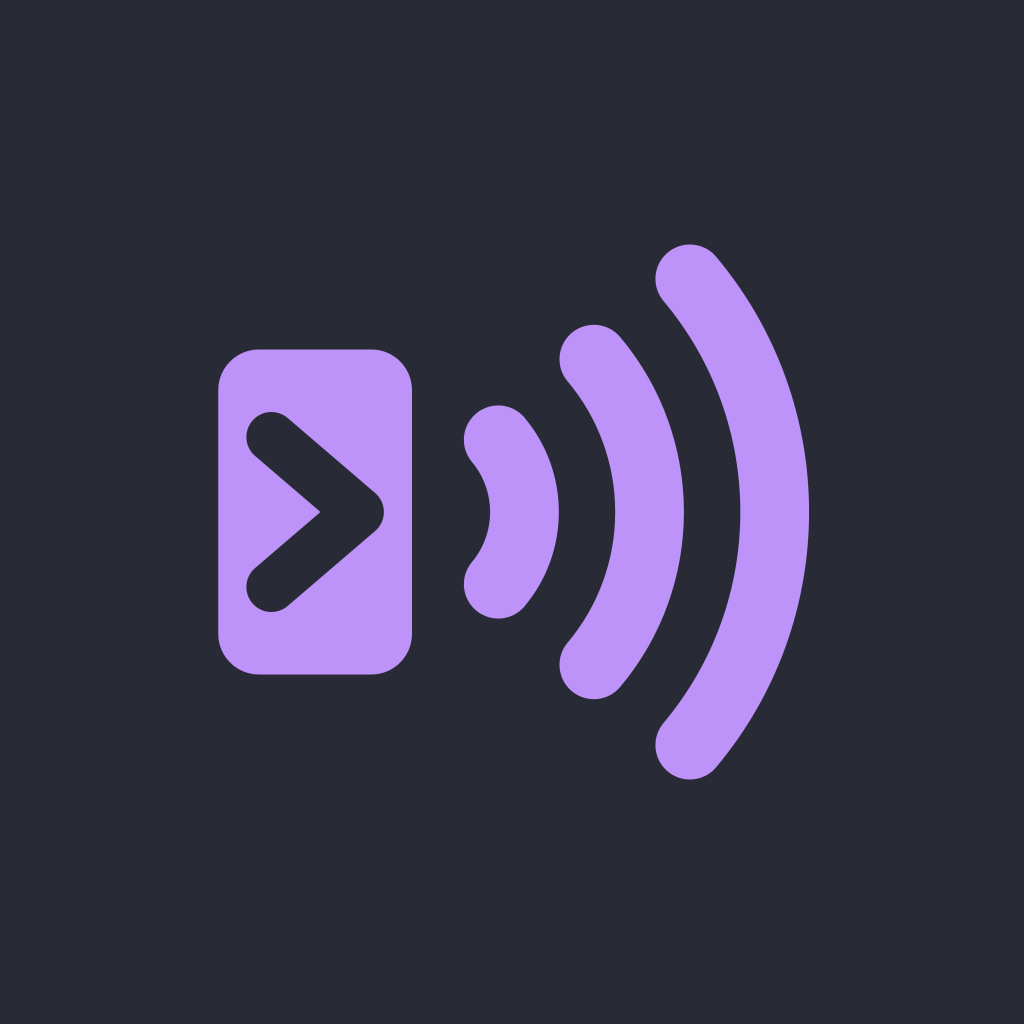
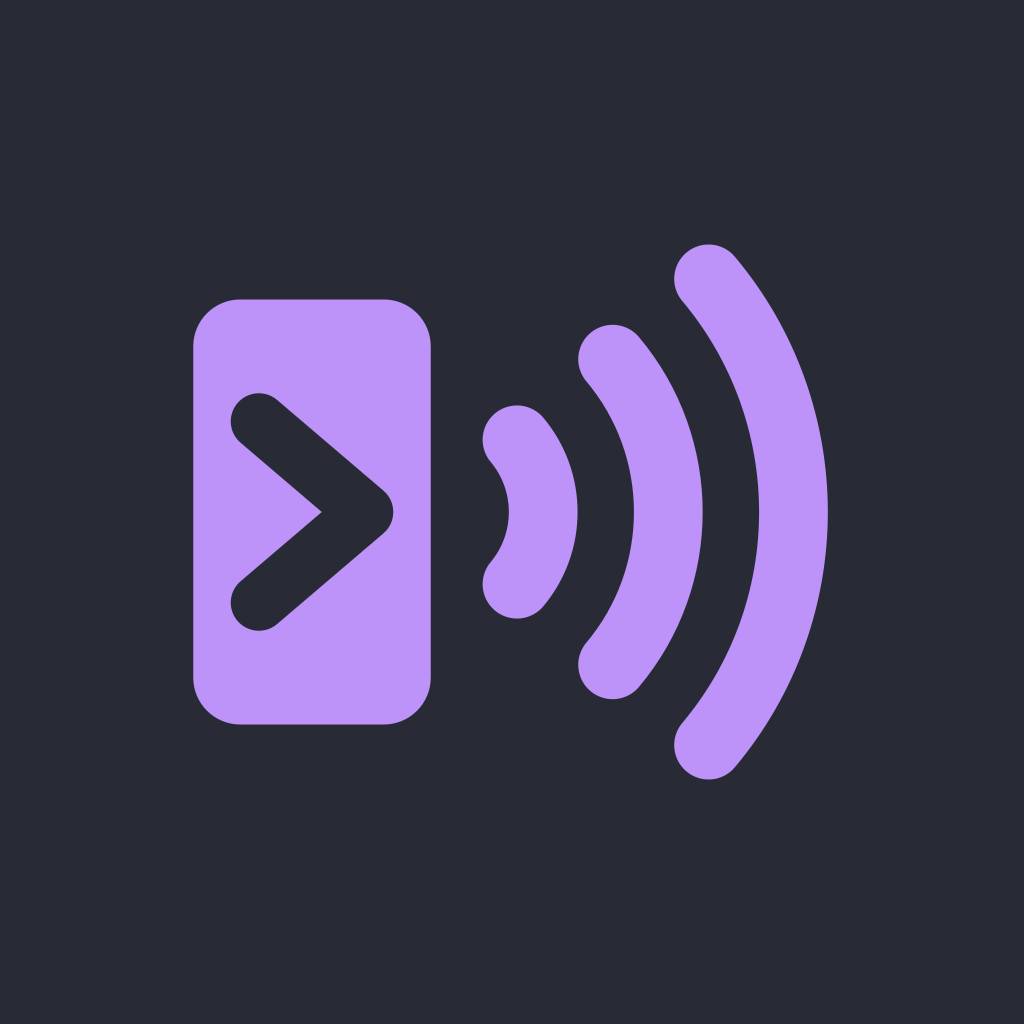
feat: taller cursor block in the Cursor Signal mark
The 62 x 104 block with three arcs leaving it read as a loudspeaker.
The block is now 76 x 136 at (26, 60), radius 15, the prompt cutout
18 (26 in the bold weight) and the arcs stay concentric on its right
edge (102, 128), so the mark reads as a phone with a signal. The same
geometry everywhere it is drawn: the icon generator and its outputs
(app icons, splash, notification, Live Activity, favicon, feature
graphic, README banner, Linux tray glyph), the app's Mark, the site's
mark and favicon, the identity sprite, the macOS and Windows tray
glyphs and the branding sources.

diff --git a/docs/design/identity/shared.js b/docs/design/identity/shared.js
@@ -8,22 +8,22 @@
     '<svg xmlns="http://www.w3.org/2000/svg" width="0" height="0" style="position:absolute" aria-hidden="true">',
     // Regular weight: app icon, splash, README, landing.
     '<symbol id="rh-mark" viewBox="0 0 256 256">',
-    '<mask id="rh-cursor"><rect width="256" height="256" fill="#fff"/><path d="M51 104L79 128L51 152" fill="none" stroke="var(--cutout, #000)" stroke-width="16" stroke-linecap="round" stroke-linejoin="round"/></mask>',
-    '<rect x="34" y="76" width="62" height="104" rx="13" fill="var(--block, currentColor)" mask="url(#rh-cursor)"/>',
+    '<mask id="rh-cursor"><rect width="256" height="256" fill="#fff"/><path d="M47 99L81 128L47 157" fill="none" stroke="var(--cutout, #000)" stroke-width="18" stroke-linecap="round" stroke-linejoin="round"/></mask>',
+    '<rect x="26" y="60" width="76" height="136" rx="15" fill="var(--block, currentColor)" mask="url(#rh-cursor)"/>',
     '<g fill="none" stroke="currentColor" stroke-width="22" stroke-linecap="round">',
-    '<path d="M123.6 104.9A36 36 0 0 1 123.6 151.1"/>',
-    '<path d="M154.2 79.1A76 76 0 0 1 154.2 176.9"/>',
-    '<path d="M184.9 53.4A116 116 0 0 1 184.9 202.6"/>',
+    '<path d="M129.6 104.9A36 36 0 0 1 129.6 151.1"/>',
+    '<path d="M160.2 79.1A76 76 0 0 1 160.2 176.9"/>',
+    '<path d="M190.9 53.4A116 116 0 0 1 190.9 202.6"/>',
     '</g>',
     '</symbol>',
     // Bold weight: menu bar, notification icon, favicon 16/32, anything under 24 px (wider cutout and arcs).
     '<symbol id="rh-mark-bold" viewBox="0 0 256 256">',
-    '<mask id="rh-cursor-bold"><rect width="256" height="256" fill="#fff"/><path d="M51 104L79 128L51 152" fill="none" stroke="var(--cutout, #000)" stroke-width="24" stroke-linecap="round" stroke-linejoin="round"/></mask>',
-    '<rect x="34" y="76" width="62" height="104" rx="13" fill="var(--block, currentColor)" mask="url(#rh-cursor-bold)"/>',
+    '<mask id="rh-cursor-bold"><rect width="256" height="256" fill="#fff"/><path d="M47 99L81 128L47 157" fill="none" stroke="var(--cutout, #000)" stroke-width="26" stroke-linecap="round" stroke-linejoin="round"/></mask>',
+    '<rect x="26" y="60" width="76" height="136" rx="15" fill="var(--block, currentColor)" mask="url(#rh-cursor-bold)"/>',
     '<g fill="none" stroke="currentColor" stroke-width="28" stroke-linecap="round">',
-    '<path d="M123.6 104.9A36 36 0 0 1 123.6 151.1"/>',
-    '<path d="M154.2 79.1A76 76 0 0 1 154.2 176.9"/>',
-    '<path d="M184.9 53.4A116 116 0 0 1 184.9 202.6"/>',
+    '<path d="M129.6 104.9A36 36 0 0 1 129.6 151.1"/>',
+    '<path d="M160.2 79.1A76 76 0 0 1 160.2 176.9"/>',
+    '<path d="M190.9 53.4A116 116 0 0 1 190.9 202.6"/>',
     '</g>',
     '</symbol>',
     '</svg>',

diff --git a/apps/daemon/tray/macos/Tray.swift b/apps/daemon/tray/macos/Tray.swift
@@ -235,17 +235,17 @@ final class Tray: NSObject {
       let ink = (colored ? NSColor.labelColor : NSColor.black)
         .withAlphaComponent(state == "offline" ? 0.4 : 1)
       ink.set()
-      let block = NSRect(x: 34 * s, y: 76 * s, width: 62 * s, height: 104 * s)
-      NSBezierPath(roundedRect: block, xRadius: 13 * s, yRadius: 13 * s).fill()
+      let block = NSRect(x: 26 * s, y: 60 * s, width: 76 * s, height: 136 * s)
+      NSBezierPath(roundedRect: block, xRadius: 15 * s, yRadius: 15 * s).fill()
       if state != "working" {
         // The prompt is punched out of the block: an opaque stroke erased from what is drawn so far.
         let prompt = NSBezierPath()
-        prompt.lineWidth = 24 * s
+        prompt.lineWidth = 26 * s
         prompt.lineCapStyle = .round
         prompt.lineJoinStyle = .round
-        prompt.move(to: p(51, 104))
-        prompt.line(to: p(79, 128))
-        prompt.line(to: p(51, 152))
+        prompt.move(to: p(47, 99))
+        prompt.line(to: p(81, 128))
+        prompt.line(to: p(47, 157))
         NSColor.black.set()
         NSGraphicsContext.current?.compositingOperation = .destinationOut
         prompt.stroke()
@@ -257,13 +257,13 @@ final class Tray: NSObject {
         let arc = NSBezierPath()
         arc.lineWidth = 28 * s
         arc.lineCapStyle = .round
-        arc.appendArc(withCenter: p(96, 128), radius: radius * s, startAngle: -40, endAngle: 40)
+        arc.appendArc(withCenter: p(102, 128), radius: radius * s, startAngle: -40, endAngle: 40)
         arc.stroke()
       }
       if colored {
         // Amber accent (#E8A33D), the only color the glyph ever carries, over the outer arc's upper end.
         NSColor(calibratedRed: 0.91, green: 0.64, blue: 0.24, alpha: 1).set()
-        NSBezierPath(ovalIn: NSRect(x: 184 * s, y: 12 * s, width: 64 * s, height: 64 * s)).fill()
+        NSBezierPath(ovalIn: NSRect(x: 190 * s, y: 12 * s, width: 64 * s, height: 64 * s)).fill()
       }
       return true
     }

diff --git a/apps/web/src/site.ts b/apps/web/src/site.ts
@@ -37,19 +37,19 @@ export const OG_IMAGE_URL = `${SITE_URL}${OG_IMAGE_PATH}`
 function markMarkup(cutout: number, arcs: number, maskId: string): string {
   return (
     `<mask id="${maskId}"><rect width="256" height="256" fill="#fff"/>` +
-    `<path d="M51 104L79 128L51 152" fill="none" stroke="#000" stroke-width="${cutout}" stroke-linecap="round" stroke-linejoin="round"/></mask>` +
-    `<rect x="34" y="76" width="62" height="104" rx="13" fill="currentColor" mask="url(#${maskId})"/>` +
+    `<path d="M47 99L81 128L47 157" fill="none" stroke="#000" stroke-width="${cutout}" stroke-linecap="round" stroke-linejoin="round"/></mask>` +
+    `<rect x="26" y="60" width="76" height="136" rx="15" fill="currentColor" mask="url(#${maskId})"/>` +
     `<g fill="none" stroke="currentColor" stroke-width="${arcs}" stroke-linecap="round">` +
-    '<path d="M123.6 104.9A36 36 0 0 1 123.6 151.1"/><path d="M154.2 79.1A76 76 0 0 1 154.2 176.9"/>' +
-    '<path d="M184.9 53.4A116 116 0 0 1 184.9 202.6"/></g>'
+    '<path d="M129.6 104.9A36 36 0 0 1 129.6 151.1"/><path d="M160.2 79.1A76 76 0 0 1 160.2 176.9"/>' +
+    '<path d="M190.9 53.4A116 116 0 0 1 190.9 202.6"/></g>'
   )
 }
 
 /** Regular weight: the landing and the install link page. */
-export const MARK_REGULAR = markMarkup(16, 22, 'rh-cursor')
+export const MARK_REGULAR = markMarkup(18, 22, 'rh-cursor')
 
 /** Bold weight (wider cutout and arcs), for anything under 24 px (the favicon). */
-export const MARK_BOLD = markMarkup(24, 28, 'rh-cursor-bold')
+export const MARK_BOLD = markMarkup(26, 28, 'rh-cursor-bold')
 
 /** Amber mark in a 78 % box on the flat warm dark, with the icon's 22 % corners. */
 export function faviconSvg(): string {

diff --git a/apps/mobile/src/ui/Mark.tsx b/apps/mobile/src/ui/Mark.tsx
@@ -8,14 +8,14 @@ type Weight = 'regular' | 'bold'
  * cut out of the cursor block and the width of the three arcs; bold widens both under 24 pt.
  */
 const GEOMETRY: Record<Weight, { cutout: number; arcs: number }> = {
-  regular: { cutout: 16, arcs: 22 },
-  bold: { cutout: 24, arcs: 28 },
+  regular: { cutout: 18, arcs: 22 },
+  bold: { cutout: 26, arcs: 28 },
 }
-const CUTOUT = 'M51 104L79 128L51 152'
+const CUTOUT = 'M47 99L81 128L47 157'
 const ARCS = [
-  'M123.6 104.9A36 36 0 0 1 123.6 151.1',
-  'M154.2 79.1A76 76 0 0 1 154.2 176.9',
-  'M184.9 53.4A116 116 0 0 1 184.9 202.6',
+  'M129.6 104.9A36 36 0 0 1 129.6 151.1',
+  'M160.2 79.1A76 76 0 0 1 160.2 176.9',
+  'M190.9 53.4A116 116 0 0 1 190.9 202.6',
 ]
 
 /**
@@ -52,7 +52,7 @@ export function Mark({
           />
         </Mask>
       </Defs>
-      <Rect x={34} y={76} width={62} height={104} rx={13} fill={paint} mask={`url(#${maskId})`} />
+      <Rect x={26} y={60} width={76} height={136} rx={15} fill={paint} mask={`url(#${maskId})`} />
       {ARCS.map((d) => (
         <Path key={d} d={d} stroke={paint} strokeWidth={m.arcs} strokeLinecap="round" fill="none" />
       ))}

diff --git a/apps/web/test/landing.test.ts b/apps/web/test/landing.test.ts
@@ -251,9 +251,9 @@ describe('site files', () => {
     // The Cursor Signal on the flat warm dark: the prompt cut out of the block, the arcs, the corners.
     expect(faviconSvg()).toContain('<rect width="256" height="256" rx="56" fill="#1c1a17"/>')
     expect(faviconSvg()).toContain(
-      '<path d="M51 104L79 128L51 152" fill="none" stroke="#000" stroke-width="24"',
+      '<path d="M47 99L81 128L47 157" fill="none" stroke="#000" stroke-width="26"',
     )
-    expect(faviconSvg()).toContain('A116 116 0 0 1 184.9 202.6')
+    expect(faviconSvg()).toContain('A116 116 0 0 1 190.9 202.6')
     expect(faviconSvg()).not.toContain('<circle')
   })
 })

diff --git a/apps/daemon/tray/windows/Tray.cs b/apps/daemon/tray/windows/Tray.cs
@@ -256,17 +256,17 @@ namespace RemoteHarness
                     // cursor block, the `>` prompt punched out of it (unless a session is working: a busy
                     // cursor is solid), then the three signal arcs.
                     using (SolidBrush brush = new SolidBrush(ink))
-                    using (GraphicsPath block = RoundedRect(34 * s, 76 * s, 62 * s, 104 * s, 13 * s))
+                    using (GraphicsPath block = RoundedRect(26 * s, 60 * s, 76 * s, 136 * s, 15 * s))
                         g.FillPath(brush, block);
                     if (state != "working")
                     {
                         g.CompositingMode = CompositingMode.SourceCopy;
-                        using (Pen cut = new Pen(Color.Transparent, 24 * s))
+                        using (Pen cut = new Pen(Color.Transparent, 26 * s))
                         {
                             cut.StartCap = LineCap.Round;
                             cut.EndCap = LineCap.Round;
                             cut.LineJoin = LineJoin.Round;
-                            PointF[] prompt = { new PointF(51 * s, 104 * s), new PointF(79 * s, 128 * s), new PointF(51 * s, 152 * s) };
+                            PointF[] prompt = { new PointF(47 * s, 99 * s), new PointF(81 * s, 128 * s), new PointF(47 * s, 157 * s) };
                             g.DrawLines(cut, prompt);
                         }
                         g.CompositingMode = CompositingMode.SourceOver;
@@ -277,13 +277,13 @@ namespace RemoteHarness
                         pen.EndCap = LineCap.Round;
                         float[] radii = { 36, 76, 116 };
                         foreach (float r in radii)
-                            g.DrawArc(pen, (96 - r) * s, (128 - r) * s, 2 * r * s, 2 * r * s, -40, 80);
+                            g.DrawArc(pen, (102 - r) * s, (128 - r) * s, 2 * r * s, 2 * r * s, -40, 80);
                     }
                     if (state == "waiting")
                     {
                         // Amber accent (#E8A33D), over the outer arc's upper end.
                         using (SolidBrush amber = new SolidBrush(Color.FromArgb(232, 163, 61)))
-                            g.FillEllipse(amber, 184 * s, 12 * s, 64 * s, 64 * s);
+                            g.FillEllipse(amber, 190 * s, 12 * s, 64 * s, 64 * s);
                     }
                 }
                 IntPtr handle = bitmap.GetHicon();
